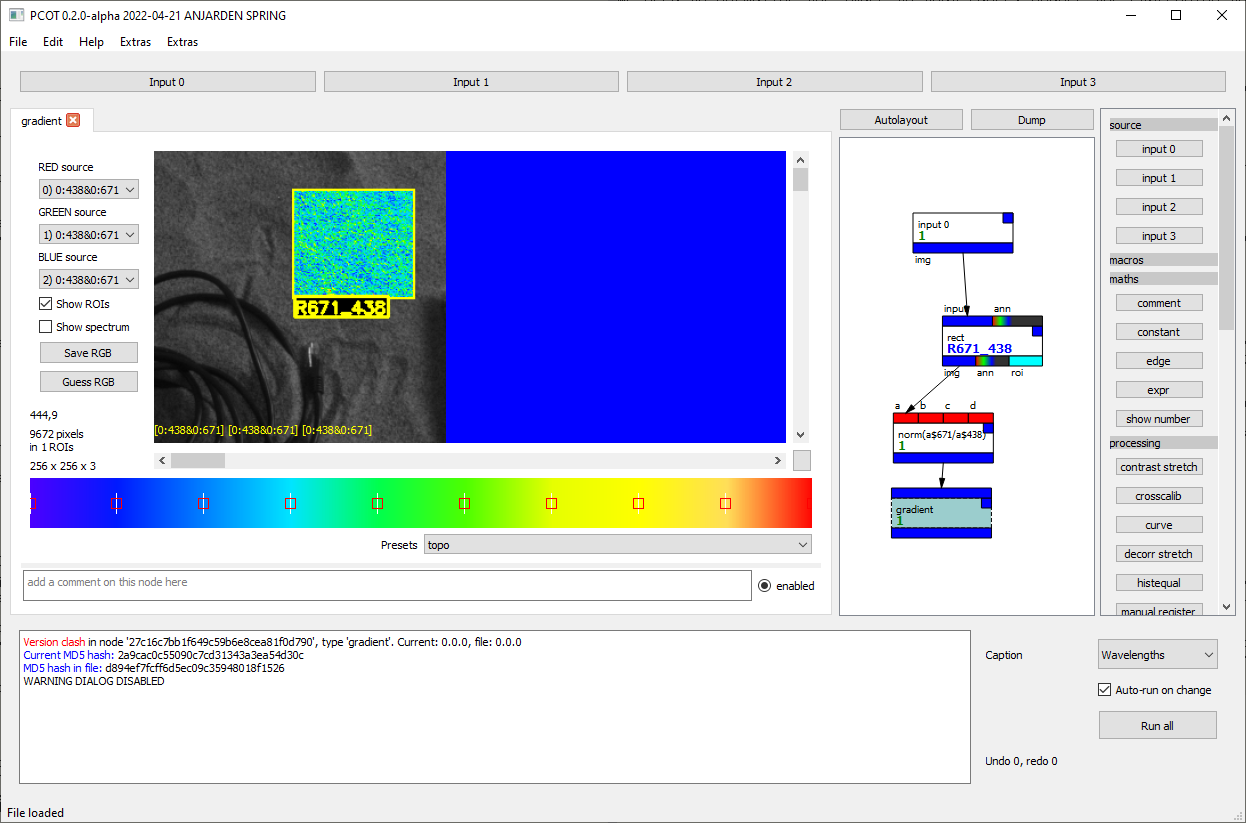
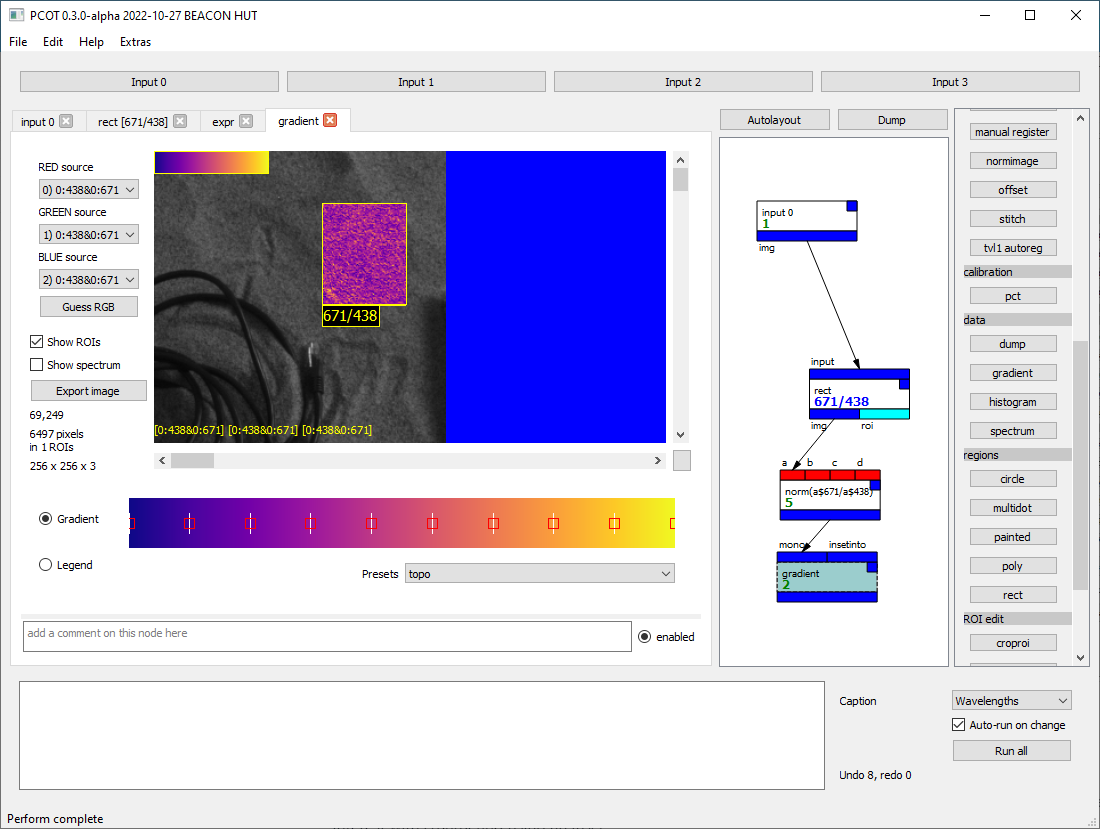
doc updates

diff --git a/mkdocs/docs/gettingstarted/concepts.md b/mkdocs/docs/gettingstarted/concepts.md
@@ -44,25 +44,17 @@ with connections to other nodes (ignore the green numbers, they just show
 how many times each node has run - it's a debugging aid!)
 Here's what each node in the graph is doing:
 
-* The *input 3* node reads input number 3 into the graph. The inputs are set up separately from the graph,
+* The *input 0* node reads input number 0 into the graph. The inputs are set up separately from the graph,
 and can be multispectral images or other data (e.g. housekeeping) from outside PCOT.
 * The *rect* node lets the user draw a rectangle on the image to define a region of interest. Images
 can have many regions of interest and several different kinds are available.
-* The *croproi* node will crop the image to its region of interest - the rectangle we just added.
 * The node with 4 inputs *a,b,c,d* is an *expr* node, which 
 calculates the result of a mathematical expression performed on each pixel. The node is showing the expression it is running: ```norm(a$671 / a$438)```.
 This will read the bands whose wavelengths are 671nm and 438nm in the node's *a* input, and find their ratio for every pixel.
-It will then normalise the result
-to the range [0,1]. The result will be a single-band image. *Expr* nodes can perform much more complex calculations than this.
-* The *gradient* node will convert a single-band image into an RGB image with a user-defined gradient.
-* Finally, the *inset* node will inset this RGB image into an RGB representation of the original image - the mapping of bands in
-that image onto RGB is done in the *input* node. A label can be added here.
-
-If you feel the gradient is rather artificial, the inset can just
-be the original band ratio image expanded to RGB greyscale using another
-*expr* node:
-
-![!Using a greyscale inset](671438grey.png)
+The result will be a single-band image. *Expr* nodes can perform much more complex calculations than this.
+* The *gradient* node will convert a single-band image into an RGB image with a user-defined gradient and
+inset it into the RGB representation of another image - here we are insetting into the input image, using
+the RGB representation used by that node.
 
 Here is another example, showing a spectral plot:
 

diff --git a/mkdocs/docs/gettingstarted/tutorial.md b/mkdocs/docs/gettingstarted/tutorial.md
@@ -324,7 +324,7 @@ Set the scale to 5 pixels and type "R671_438" in the Annotation box, something l
 ![!R671_438 with a rectangle|R671_438b](R671_438b.png)
 
 Now the *expr* node shows this - only the rectangle has the parameter, while the rest of
-the image shows the 671nm band:
+the image shows the 671nm band. To see this, click on the *expr* tab:
 
 ![!R671_438 with a rectangle|R671_438c](R671_438c.png)
 
@@ -339,21 +339,29 @@ images):
 
 ![!R671_438 with a rectangle and gradient|R671_438d](R671_438d.png)
 
-There's not much to see because of the nature of the image, unfortunately!
+There's not much to see because of the nature of the image, unfortunately! Note that there is a "legend"
+at top left, and this can be edited and placed by clicking on the Legend button:
 
-It is possible to "inset" the gradient into the RGB representation used in the *input* node
-by cropping it to its region of interest with *croproi* and using an *inset*:
+![!R671_438 with a better gradient legend|R671_438da](R671_438da.png)
+
+
+It is possible to "inset" the gradient into the RGB representation used in the *input* node by passing
+that to the *insetinto* input of the gradient:
 
 ![!R671_438 inset into source image RGB representation|R671_438e](R671_438e.png)
 
+Finally, the gradient node will automatically normalise its data to a range. That makes the *norm* function
+used in the expression redundant. We can remove it, and we'll see the full range on the legend:
+
+![!R671_438 showing full range|R671_438f](R671_438f.png)
+
 @@@alert
-The ROI annotations are drawn onto the RGB representation of the image, which makes the resolution
-rather poor on small images. That will change. Also, it will be possible to add a legend to the
-gradient node.
+Note that the positioning of the legend text is slightly off; we'll fix that.
 @@@
 
+It is also possible to export the data as a PDF, SVG or PNG with the legend in the margin:
 
-
+![!Exported R671_438 (svg)|leg](leg.svg)
 
 
 
